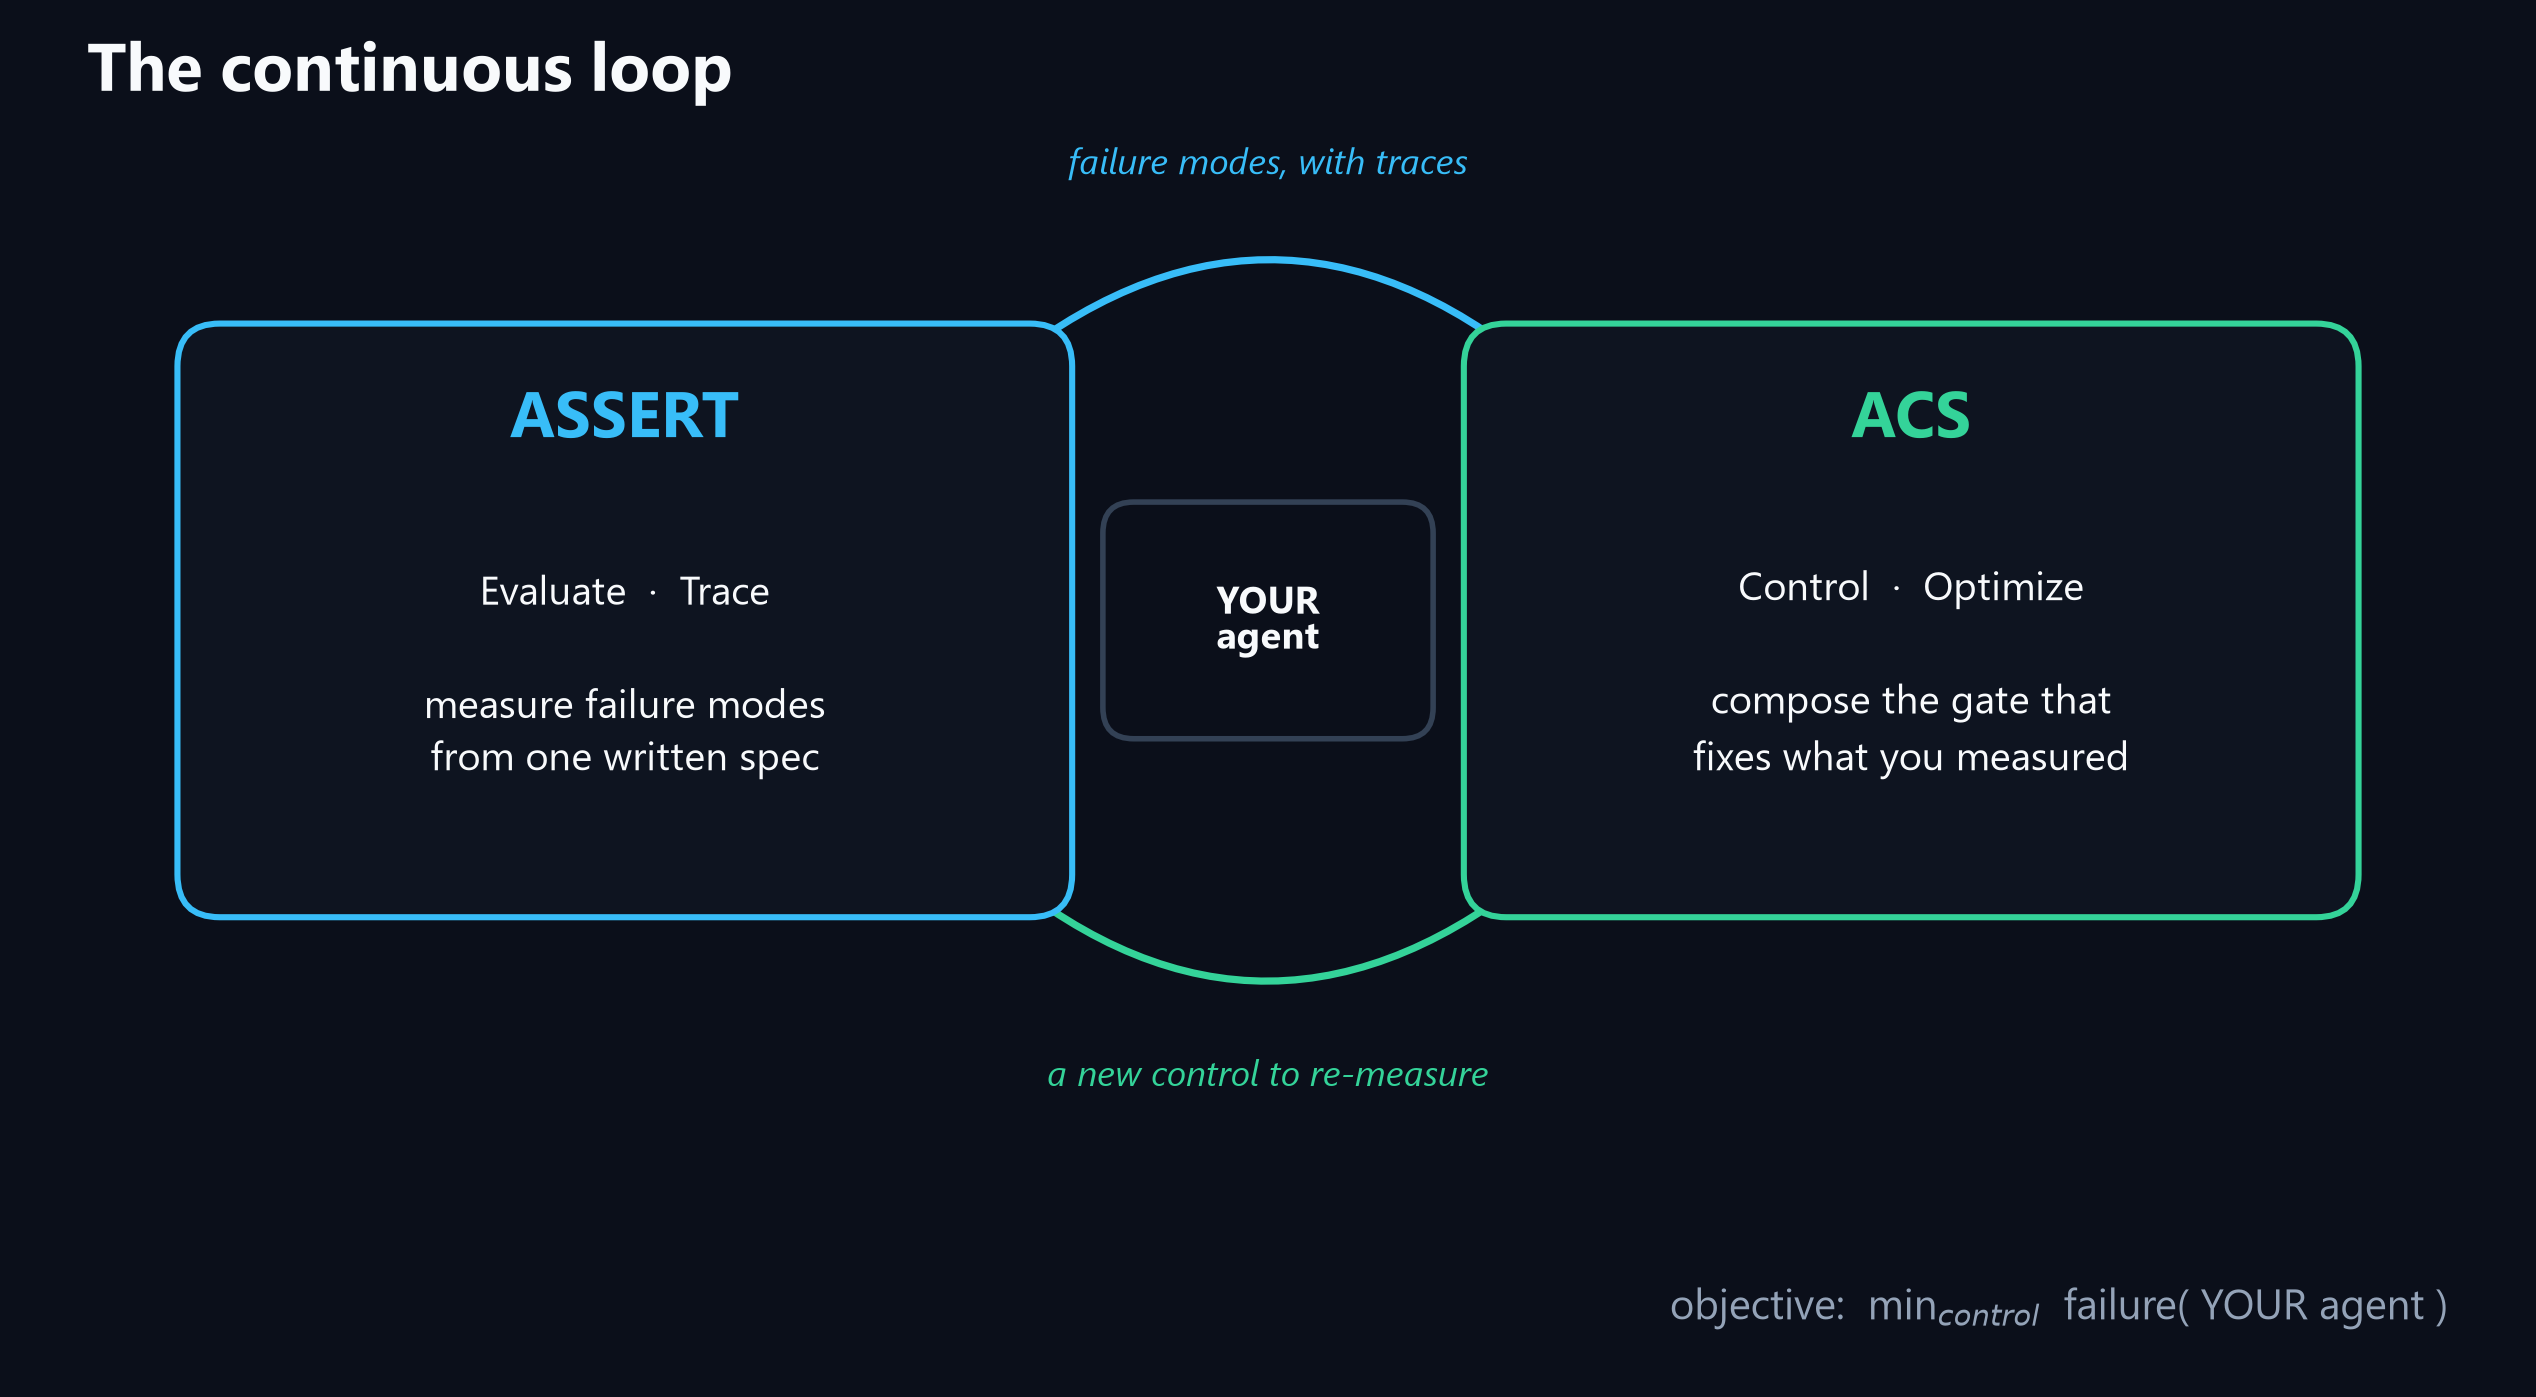
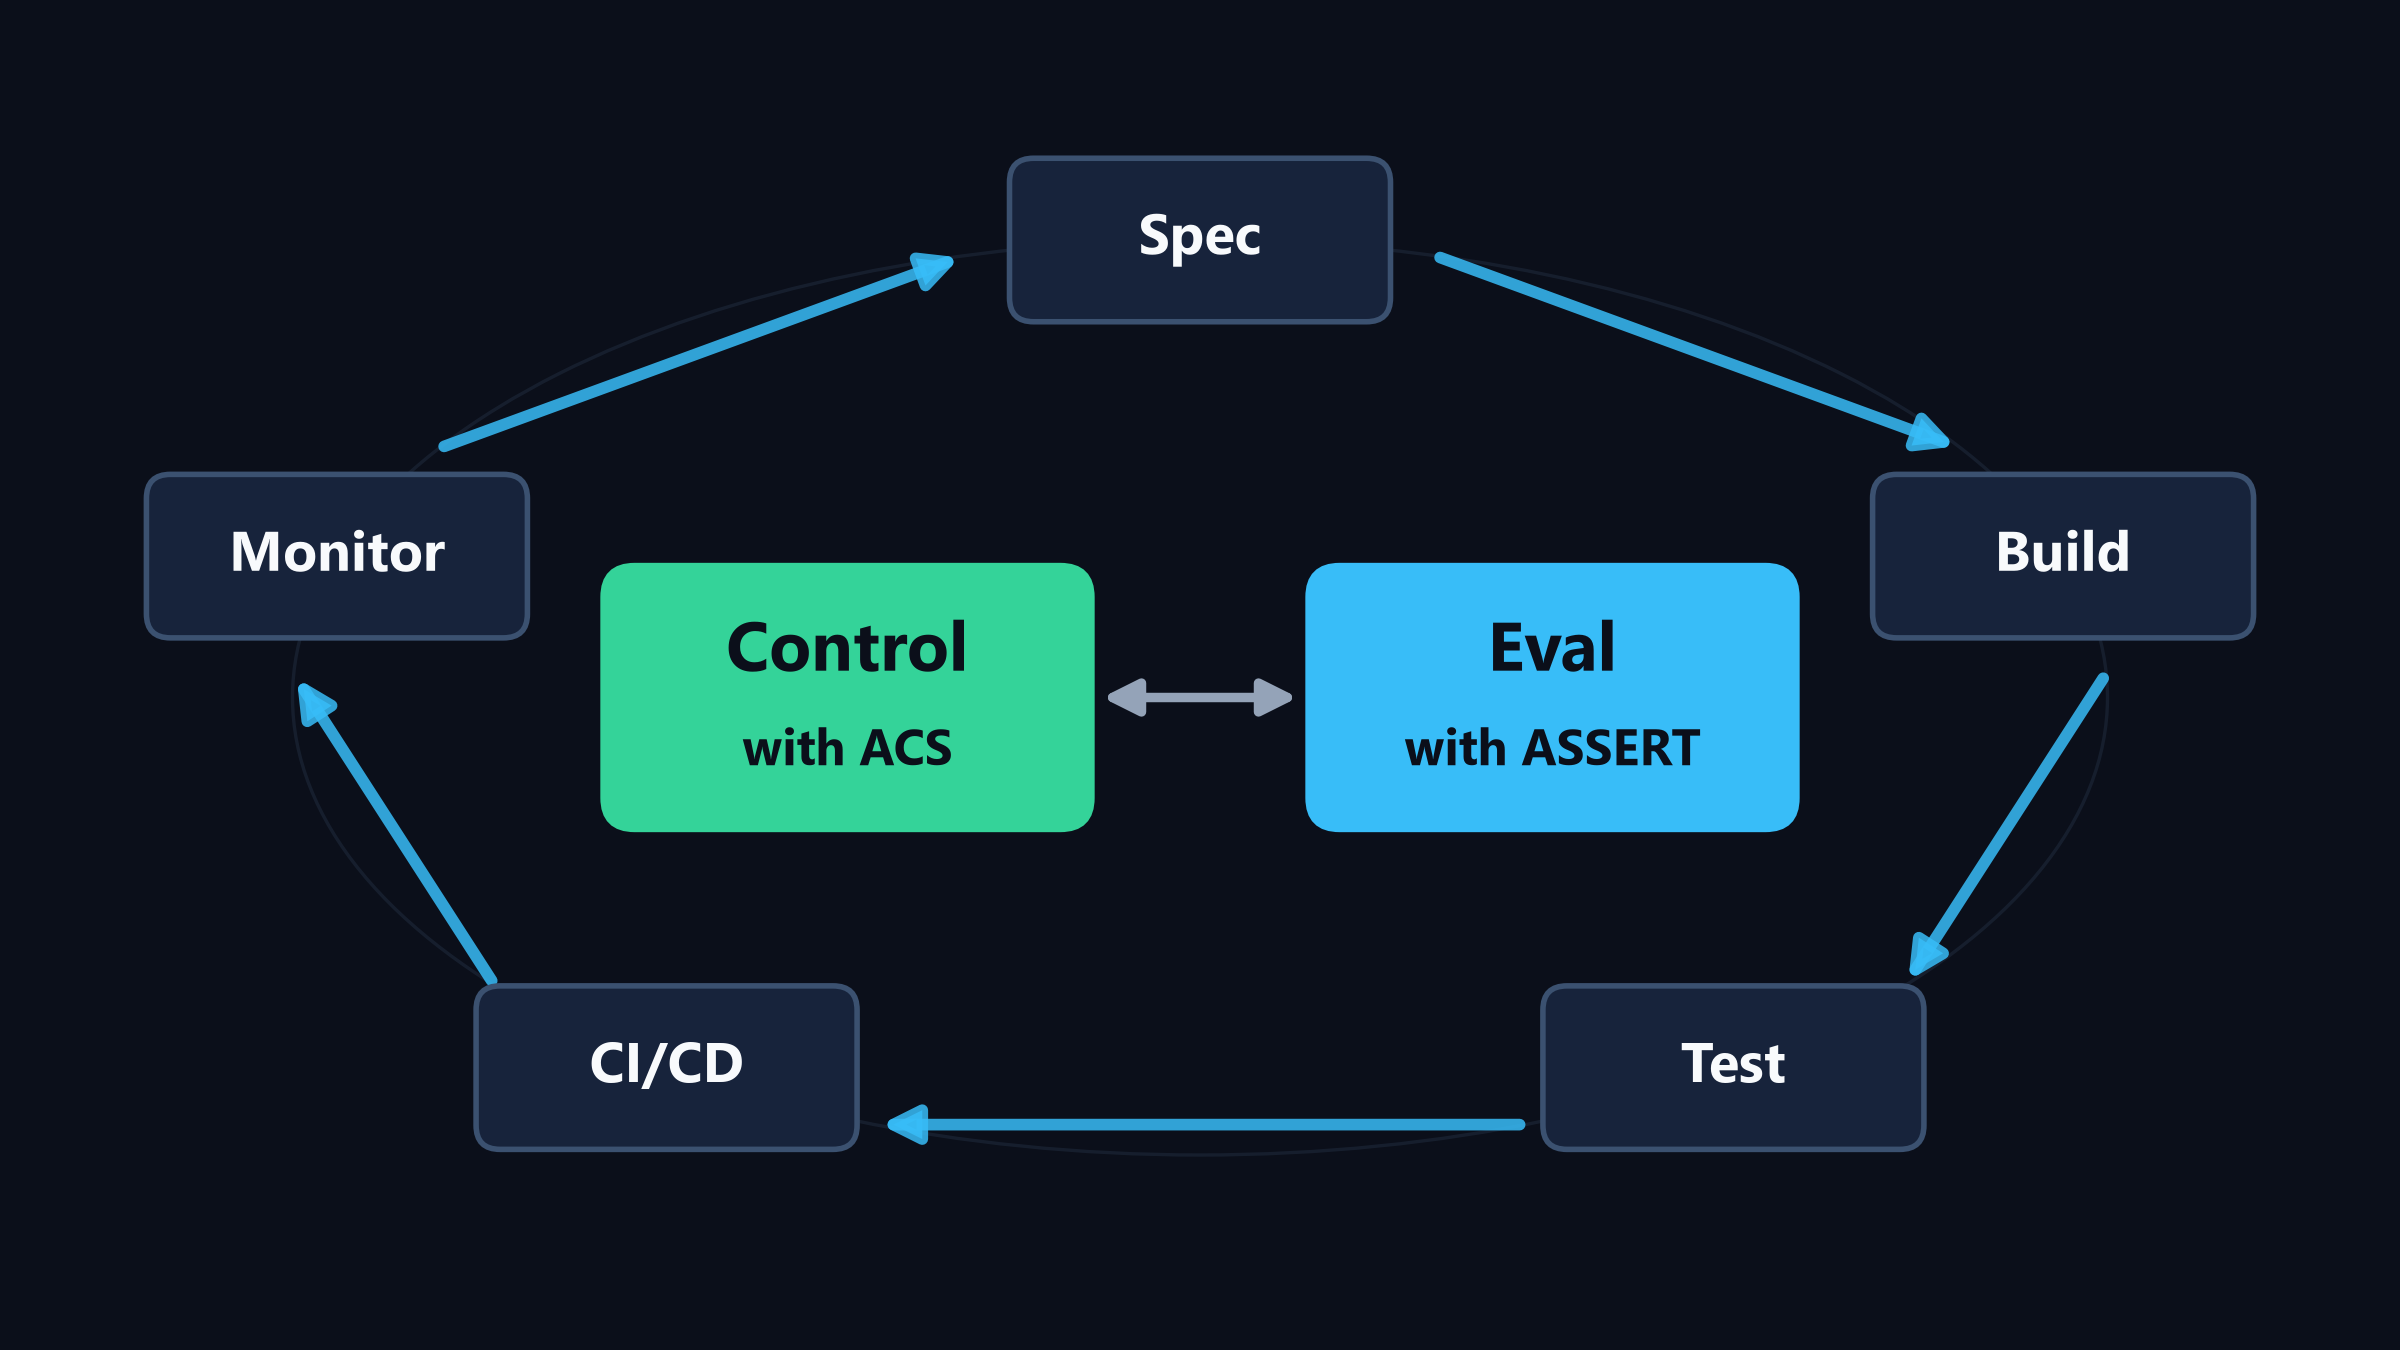
docs(talks): refine AIEWF deck — title, loop diagram, pareto; drop rego slide
- Title slide: val + control -> optimize (drop the min_control formula line)
- Loop slide: redraw as outer lifecycle ring (Spec/Build/Test/CI/CD/Monitor)
  around the Control-with-ACS <-> Eval-with-ASSERT core, straight arrows,
  solid inner boxes; retitle 'The inner loop to power the outer loop'
- Pareto slide: move the 'better' cue to the top-left, drop the frontier
  L-bracket, relabel the null arm 'Defensive prompt (no gain, p = .31)' and
  the subtitle 'manual prompt tuning didn't help here'
- Remove the policy-as-code / Rego generalization slide + its asset

Copilot-Session: d429caee-f2da-4fb0-8b2c-d0eff7cf40a3

diff --git a/talks/aiewf-18min/index.html b/talks/aiewf-18min/index.html
@@ -70,8 +70,7 @@
   <!-- 0 · Title -->
   <section class="slide center active">
     <div class="kicker">AIEWF 2026</div>
-    <h1><code>min<sub>control</sub> failure(YOUR&nbsp;agent)</code></h1>
-    <div class="sub">eval&nbsp;+&nbsp;control&nbsp;→&nbsp;optimize</div>
+    <h1>eval&nbsp;+&nbsp;control&nbsp;→&nbsp;optimize</h1>
     <div class="sub" style="margin-top:3vh">Chang Liu · Senior Product Manager, Microsoft</div>
   </section>
 
@@ -109,14 +108,10 @@
 
   <!-- 4 · Loop -->
   <section class="slide center">
-    <div class="kicker">The inner loop that powers the outer loop</div>
-    <h2>Evaluate → Control → Optimize</h2>
-    <img class="chart" src="assets/loop_diagram.png" alt="Continuous loop: eval with ASSERT, control with ACS" onerror="chartFail(this)" />
-    <div class="loop">
-      <span class="chip assert">Eval with ASSERT</span>
-      <span class="chip acs">Control with ACS</span>
-      <span class="chip">Spec → Build → Test → CI/CD → Monitor</span>
-    </div>
+    <div class="kicker">Evaluate → Control → Optimize</div>
+    <h2>The inner loop to power the outer loop</h2>
+    <img class="chart" src="assets/loop_diagram.png" alt="Outer lifecycle ring — Spec, Build, Test, CI/CD, Monitor — powered by an inner core: Control with ACS and Eval with ASSERT" onerror="chartFail(this)" />
+    <div class="sub">ASSERT and Agent Control Specification (ACS) work together to close the eval-fix loop across the AI development lifecycle.</div>
   </section>
 
   <!-- 5 · Pareto -->
@@ -126,14 +121,7 @@
     <img class="chart" src="assets/pareto.png" alt="Pareto frontier: unguarded vs defensive prompt vs control plane" onerror="chartFail(this)" />
   </section>
 
-  <!-- 6 · Policy as code -->
-  <section class="slide">
-    <div class="kicker">Generalization</div>
-    <h2>Policy as code — one rule, every domain</h2>
-    <img class="chart" src="assets/generalization_leak.png" alt="Policy-as-code holds across four domains it was never explicitly written for" onerror="chartFail(this)" />
-  </section>
-
-  <!-- 7 · Announcement -->
+  <!-- 6 · Announcement -->
   <section class="slide center">
     <div class="kicker">Open standards for evaluating &amp; controlling AI agents</div>
     <div class="announce">
